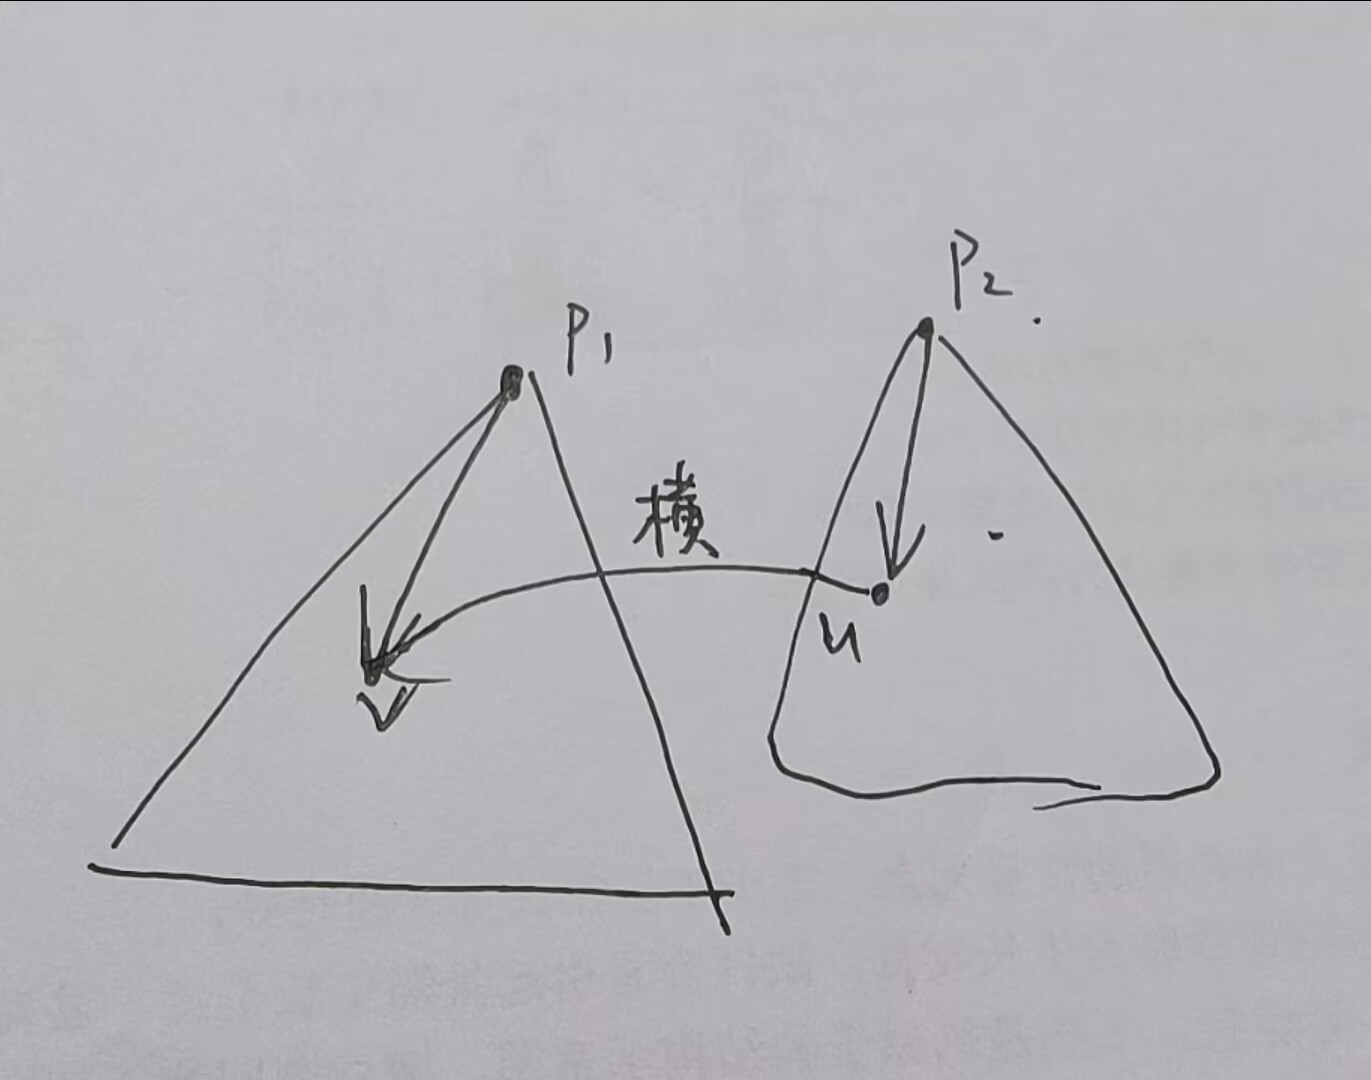
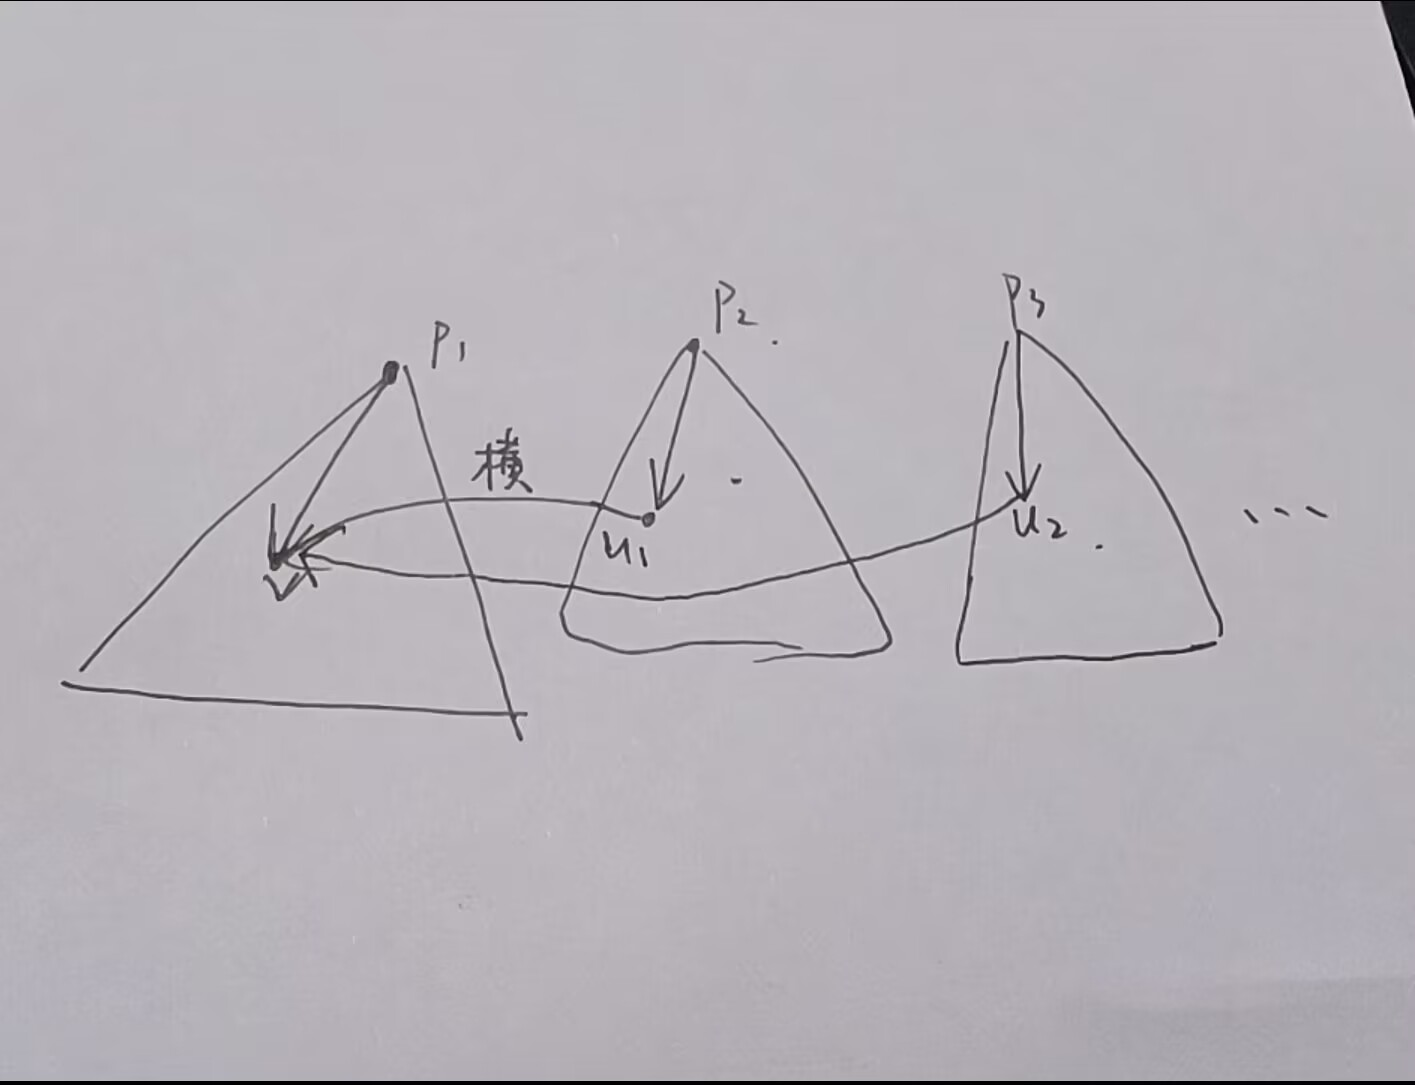
Site updated: 2024-07-22 17:29:27

diff --git a/posts/NOI2024-D2T3/index.html b/posts/NOI2024-D2T3/index.html
@@ -30,7 +30,7 @@
 <meta property="og:image" content="https://zlxfth.github.io/images/1.jpg">
 <meta property="og:image" content="https://zlxfth.github.io/images/2.jpg">
 <meta property="article:published_time" content="2024-07-21T16:15:02.000Z">
-<meta property="article:modified_time" content="2024-07-21T16:18:11.318Z">
+<meta property="article:modified_time" content="2024-07-22T09:22:30.491Z">
 <meta property="article:author" content="zlxFTH">
 <meta name="twitter:card" content="summary">
 <meta name="twitter:image" content="https://zlxfth.github.io/images/1.jpg">
@@ -216,7 +216,7 @@
               <span class="post-meta-item-text">发表于</span>
               
 
-              <time title="创建时间：2024-07-22 00:15:02 / 修改时间：00:18:11" itemprop="dateCreated datePublished" datetime="2024-07-22T00:15:02+08:00">2024-07-22</time>
+              <time title="创建时间：2024-07-22 00:15:02 / 修改时间：17:22:30" itemprop="dateCreated datePublished" datetime="2024-07-22T00:15:02+08:00">2024-07-22</time>
             </span>
             <span class="post-meta-item">
               <span class="post-meta-item-icon">
@@ -279,7 +279,7 @@
 <p>任意一个点 <span class="katex"><span class="katex-mathml"><math xmlns="http://www.w3.org/1998/Math/MathML"><semantics><mrow><mi>u</mi></mrow><annotation encoding="application/x-tex">u</annotation></semantics></math></span><span class="katex-html" aria-hidden="true"><span class="base"><span class="strut" style="height:0.4306em;"></span><span class="mord mathnormal">u</span></span></span></span>，只有子树内恰好存在 <span class="katex"><span class="katex-mathml"><math xmlns="http://www.w3.org/1998/Math/MathML"><semantics><mrow><mn>1</mn></mrow><annotation encoding="application/x-tex">1</annotation></semantics></math></span><span class="katex-html" aria-hidden="true"><span class="base"><span class="strut" style="height:0.6444em;"></span><span class="mord">1</span></span></span></span> 条指向 <span class="katex"><span class="katex-mathml"><math xmlns="http://www.w3.org/1998/Math/MathML"><semantics><mrow><mi>u</mi></mrow><annotation encoding="application/x-tex">u</annotation></semantics></math></span><span class="katex-html" aria-hidden="true"><span class="base"><span class="strut" style="height:0.4306em;"></span><span class="mord mathnormal">u</span></span></span></span> 祖先的返祖边，或者恰好存在 <span class="katex"><span class="katex-mathml"><math xmlns="http://www.w3.org/1998/Math/MathML"><semantics><mrow><mn>1</mn></mrow><annotation encoding="application/x-tex">1</annotation></semantics></math></span><span class="katex-html" aria-hidden="true"><span class="base"><span class="strut" style="height:0.6444em;"></span><span class="mord">1</span></span></span></span> 条指向外部的横叉边，且指向的点是一类点才可能是一类点。</p>
 </blockquote>
 <p>画图比较类似，因为是强连通分量，发现有 <span class="katex"><span class="katex-mathml"><math xmlns="http://www.w3.org/1998/Math/MathML"><semantics><mrow><mo>&gt;</mo><mn>1</mn></mrow><annotation encoding="application/x-tex">&gt;1</annotation></semantics></math></span><span class="katex-html" aria-hidden="true"><span class="base"><span class="strut" style="height:0.5782em;vertical-align:-0.0391em;"></span><span class="mrel">&gt;</span><span class="mspace" style="margin-right:0.2778em;"></span></span><span class="base"><span class="strut" style="height:0.6444em;"></span><span class="mord">1</span></span></span></span> 条到根的路径就矛盾了。</p>
-<p>这个依赖关系是一个二叉树，从根开始找肯定死路一条。</p>
+<p>这个依赖关系是一个树，从根开始找肯定死路一条。</p>
 <blockquote>
 <p>对于一个前向边 <span class="katex"><span class="katex-mathml"><math xmlns="http://www.w3.org/1998/Math/MathML"><semantics><mrow><mo stretchy="false">(</mo><mi>u</mi><mo separator="true">,</mo><mi>v</mi><mo stretchy="false">)</mo></mrow><annotation encoding="application/x-tex">(u, v)</annotation></semantics></math></span><span class="katex-html" aria-hidden="true"><span class="base"><span class="strut" style="height:1em;vertical-align:-0.25em;"></span><span class="mopen">(</span><span class="mord mathnormal">u</span><span class="mpunct">,</span><span class="mspace" style="margin-right:0.1667em;"></span><span class="mord mathnormal" style="margin-right:0.03588em;">v</span><span class="mclose">)</span></span></span></span>，它最后一定是一个返祖边。</p>
 <p>对于一个横叉边 <span class="katex"><span class="katex-mathml"><math xmlns="http://www.w3.org/1998/Math/MathML"><semantics><mrow><mo stretchy="false">(</mo><mi>u</mi><mo separator="true">,</mo><mi>v</mi><mo stretchy="false">)</mo></mrow><annotation encoding="application/x-tex">(u, v)</annotation></semantics></math></span><span class="katex-html" aria-hidden="true"><span class="base"><span class="strut" style="height:1em;vertical-align:-0.25em;"></span><span class="mopen">(</span><span class="mord mathnormal">u</span><span class="mpunct">,</span><span class="mspace" style="margin-right:0.1667em;"></span><span class="mord mathnormal" style="margin-right:0.03588em;">v</span><span class="mclose">)</span></span></span></span>，它最后要么是树边，要么是返祖边。</p>
@@ -287,9 +287,9 @@
 <p>所以一类点在二叉树上一定在 <span class="katex"><span class="katex-mathml"><math xmlns="http://www.w3.org/1998/Math/MathML"><semantics><mrow><mi>v</mi></mrow><annotation encoding="application/x-tex">v</annotation></semantics></math></span><span class="katex-html" aria-hidden="true"><span class="base"><span class="strut" style="height:0.4306em;"></span><span class="mord mathnormal" style="margin-right:0.03588em;">v</span></span></span></span> 的子树内。</p>
 <p>树边和返祖边最后是互相转化（？）这里我场上猜的，画了好几个图感觉没影响啊。</p>
 <p>（<s>就这里如果我当时会证了就不会后半场 T2 <span class="katex"><span class="katex-mathml"><math xmlns="http://www.w3.org/1998/Math/MathML"><semantics><mrow><mn>15</mn><mi>p</mi><mi>t</mi><mi>s</mi></mrow><annotation encoding="application/x-tex">15pts</annotation></semantics></math></span><span class="katex-html" aria-hidden="true"><span class="base"><span class="strut" style="height:0.8389em;vertical-align:-0.1944em;"></span><span class="mord">15</span><span class="mord mathnormal">pt</span><span class="mord mathnormal">s</span></span></span></span> 了</s>）</p>
-<p>找到二叉树上深度最大的 <span class="katex"><span class="katex-mathml"><math xmlns="http://www.w3.org/1998/Math/MathML"><semantics><mrow><mi>v</mi></mrow><annotation encoding="application/x-tex">v</annotation></semantics></math></span><span class="katex-html" aria-hidden="true"><span class="base"><span class="strut" style="height:0.4306em;"></span><span class="mord mathnormal" style="margin-right:0.03588em;">v</span></span></span></span>，在它子树内搜索。</p>
+<p>找到树上深度最大的 <span class="katex"><span class="katex-mathml"><math xmlns="http://www.w3.org/1998/Math/MathML"><semantics><mrow><mi>v</mi></mrow><annotation encoding="application/x-tex">v</annotation></semantics></math></span><span class="katex-html" aria-hidden="true"><span class="base"><span class="strut" style="height:0.4306em;"></span><span class="mord mathnormal" style="margin-right:0.03588em;">v</span></span></span></span>，在它子树内搜索。</p>
 <img src="/images/2.jpg" style="zoom:25%;" />
-<p>注意到 <span class="katex"><span class="katex-mathml"><math xmlns="http://www.w3.org/1998/Math/MathML"><semantics><mrow><mi>v</mi></mrow><annotation encoding="application/x-tex">v</annotation></semantics></math></span><span class="katex-html" aria-hidden="true"><span class="base"><span class="strut" style="height:0.4306em;"></span><span class="mord mathnormal" style="margin-right:0.03588em;">v</span></span></span></span> 子树最后一定是形如这样的两条链（可能只有一条，就是没有 <span class="katex"><span class="katex-mathml"><math xmlns="http://www.w3.org/1998/Math/MathML"><semantics><mrow><mi>u</mi></mrow><annotation encoding="application/x-tex">u</annotation></semantics></math></span><span class="katex-html" aria-hidden="true"><span class="base"><span class="strut" style="height:0.4306em;"></span><span class="mord mathnormal">u</span></span></span></span> 后面这部分），可能的点就是 <span class="katex"><span class="katex-mathml"><math xmlns="http://www.w3.org/1998/Math/MathML"><semantics><mrow><msub><mi>p</mi><mn>1</mn></msub></mrow><annotation encoding="application/x-tex">p_1</annotation></semantics></math></span><span class="katex-html" aria-hidden="true"><span class="base"><span class="strut" style="height:0.625em;vertical-align:-0.1944em;"></span><span class="mord"><span class="mord mathnormal">p</span><span class="msupsub"><span class="vlist-t vlist-t2"><span class="vlist-r"><span class="vlist" style="height:0.3011em;"><span style="top:-2.55em;margin-left:0em;margin-right:0.05em;"><span class="pstrut" style="height:2.7em;"></span><span class="sizing reset-size6 size3 mtight"><span class="mord mtight">1</span></span></span></span><span class="vlist-s"></span></span><span class="vlist-r"><span class="vlist" style="height:0.15em;"><span></span></span></span></span></span></span></span></span></span> 和 <span class="katex"><span class="katex-mathml"><math xmlns="http://www.w3.org/1998/Math/MathML"><semantics><mrow><msub><mi>p</mi><mn>2</mn></msub></mrow><annotation encoding="application/x-tex">p_2</annotation></semantics></math></span><span class="katex-html" aria-hidden="true"><span class="base"><span class="strut" style="height:0.625em;vertical-align:-0.1944em;"></span><span class="mord"><span class="mord mathnormal">p</span><span class="msupsub"><span class="vlist-t vlist-t2"><span class="vlist-r"><span class="vlist" style="height:0.3011em;"><span style="top:-2.55em;margin-left:0em;margin-right:0.05em;"><span class="pstrut" style="height:2.7em;"></span><span class="sizing reset-size6 size3 mtight"><span class="mord mtight">2</span></span></span></span><span class="vlist-s"></span></span><span class="vlist-r"><span class="vlist" style="height:0.15em;"><span></span></span></span></span></span></span></span></span></span>，暴力 check 就行了。</p>
+<p>注意到 <span class="katex"><span class="katex-mathml"><math xmlns="http://www.w3.org/1998/Math/MathML"><semantics><mrow><mi>v</mi></mrow><annotation encoding="application/x-tex">v</annotation></semantics></math></span><span class="katex-html" aria-hidden="true"><span class="base"><span class="strut" style="height:0.4306em;"></span><span class="mord mathnormal" style="margin-right:0.03588em;">v</span></span></span></span> 子树最后一定是形如这样的链（可能只有一条，就是没有 <span class="katex"><span class="katex-mathml"><math xmlns="http://www.w3.org/1998/Math/MathML"><semantics><mrow><mi>u</mi></mrow><annotation encoding="application/x-tex">u</annotation></semantics></math></span><span class="katex-html" aria-hidden="true"><span class="base"><span class="strut" style="height:0.4306em;"></span><span class="mord mathnormal">u</span></span></span></span> 后面这部分），可能的点就是 <span class="katex"><span class="katex-mathml"><math xmlns="http://www.w3.org/1998/Math/MathML"><semantics><mrow><msub><mi>p</mi><mn>1</mn></msub></mrow><annotation encoding="application/x-tex">p_1</annotation></semantics></math></span><span class="katex-html" aria-hidden="true"><span class="base"><span class="strut" style="height:0.625em;vertical-align:-0.1944em;"></span><span class="mord"><span class="mord mathnormal">p</span><span class="msupsub"><span class="vlist-t vlist-t2"><span class="vlist-r"><span class="vlist" style="height:0.3011em;"><span style="top:-2.55em;margin-left:0em;margin-right:0.05em;"><span class="pstrut" style="height:2.7em;"></span><span class="sizing reset-size6 size3 mtight"><span class="mord mtight">1</span></span></span></span><span class="vlist-s"></span></span><span class="vlist-r"><span class="vlist" style="height:0.15em;"><span></span></span></span></span></span></span></span></span></span> 和 <span class="katex"><span class="katex-mathml"><math xmlns="http://www.w3.org/1998/Math/MathML"><semantics><mrow><mi>v</mi></mrow><annotation encoding="application/x-tex">v</annotation></semantics></math></span><span class="katex-html" aria-hidden="true"><span class="base"><span class="strut" style="height:0.4306em;"></span><span class="mord mathnormal" style="margin-right:0.03588em;">v</span></span></span></span>，暴力 check 就行了。</p>
 <p>时间复杂度 <span class="katex"><span class="katex-mathml"><math xmlns="http://www.w3.org/1998/Math/MathML"><semantics><mrow><mi>O</mi><mo stretchy="false">(</mo><mi>n</mi><mi>log</mi><mo></mo><mi>n</mi><mo stretchy="false">)</mo></mrow><annotation encoding="application/x-tex">O(n\log n)</annotation></semantics></math></span><span class="katex-html" aria-hidden="true"><span class="base"><span class="strut" style="height:1em;vertical-align:-0.25em;"></span><span class="mord mathnormal" style="margin-right:0.02778em;">O</span><span class="mopen">(</span><span class="mord mathnormal">n</span><span class="mspace" style="margin-right:0.1667em;"></span><span class="mop">lo<span style="margin-right:0.01389em;">g</span></span><span class="mspace" style="margin-right:0.1667em;"></span><span class="mord mathnormal">n</span><span class="mclose">)</span></span></span></span>。</p>
 
     </div>

diff --git a/index.html b/index.html
@@ -209,7 +209,7 @@
               <span class="post-meta-item-text">发表于</span>
               
 
-              <time title="创建时间：2024-07-22 00:15:02 / 修改时间：00:18:11" itemprop="dateCreated datePublished" datetime="2024-07-22T00:15:02+08:00">2024-07-22</time>
+              <time title="创建时间：2024-07-22 00:15:02 / 修改时间：17:22:30" itemprop="dateCreated datePublished" datetime="2024-07-22T00:15:02+08:00">2024-07-22</time>
             </span>
             <span class="post-meta-item">
               <span class="post-meta-item-icon">

diff --git a/css/main.css b/css/main.css
@@ -1195,7 +1195,7 @@ pre .javascript .function {
 }
 .links-of-author a::before,
 .links-of-author span.exturl::before {
-  background: #cdd90f;
+  background: #6234ff;
   border-radius: 50%;
   content: ' ';
   display: inline-block;
